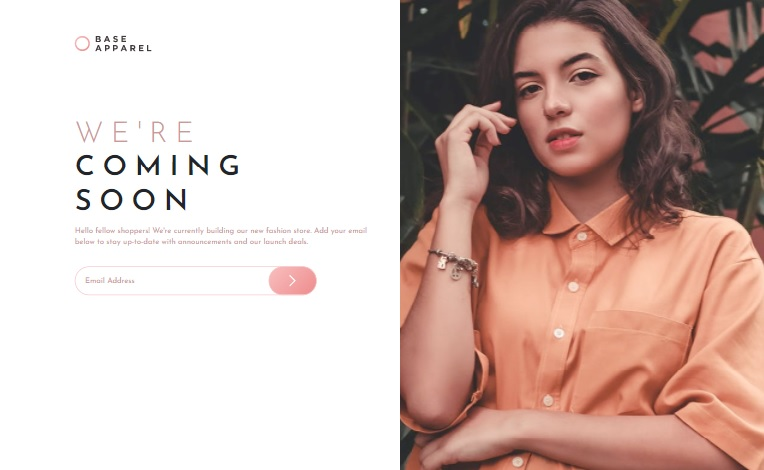
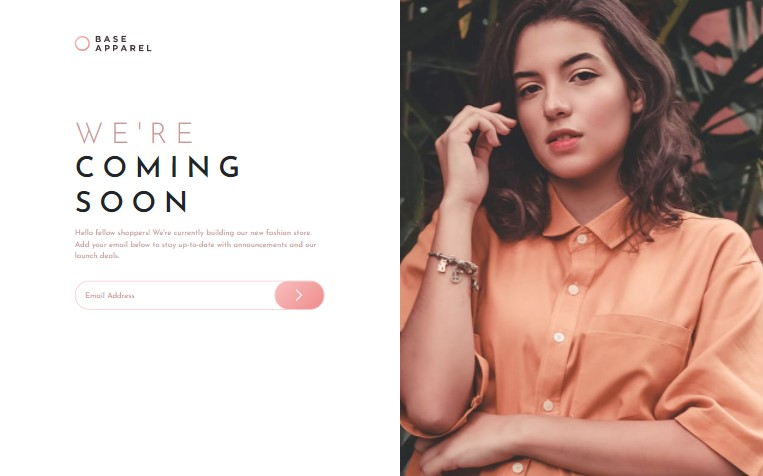
Change screenshots and change margins for email form

diff --git a/css/styles.css b/css/styles.css
@@ -108,18 +108,13 @@ p {
   .hero-img {
     float: right;
     max-width: 50%;
-    margin-left: 3rem;
   }
 
   .description {
     width: 50%;
     text-align: left;
     margin: 0rem 2rem 0rem 6rem;
-  }
-
-  #email-form {
-    margin: 0;
-    width: 70%;
+    padding-right: 12rem;
   }
 
   .attribution {
